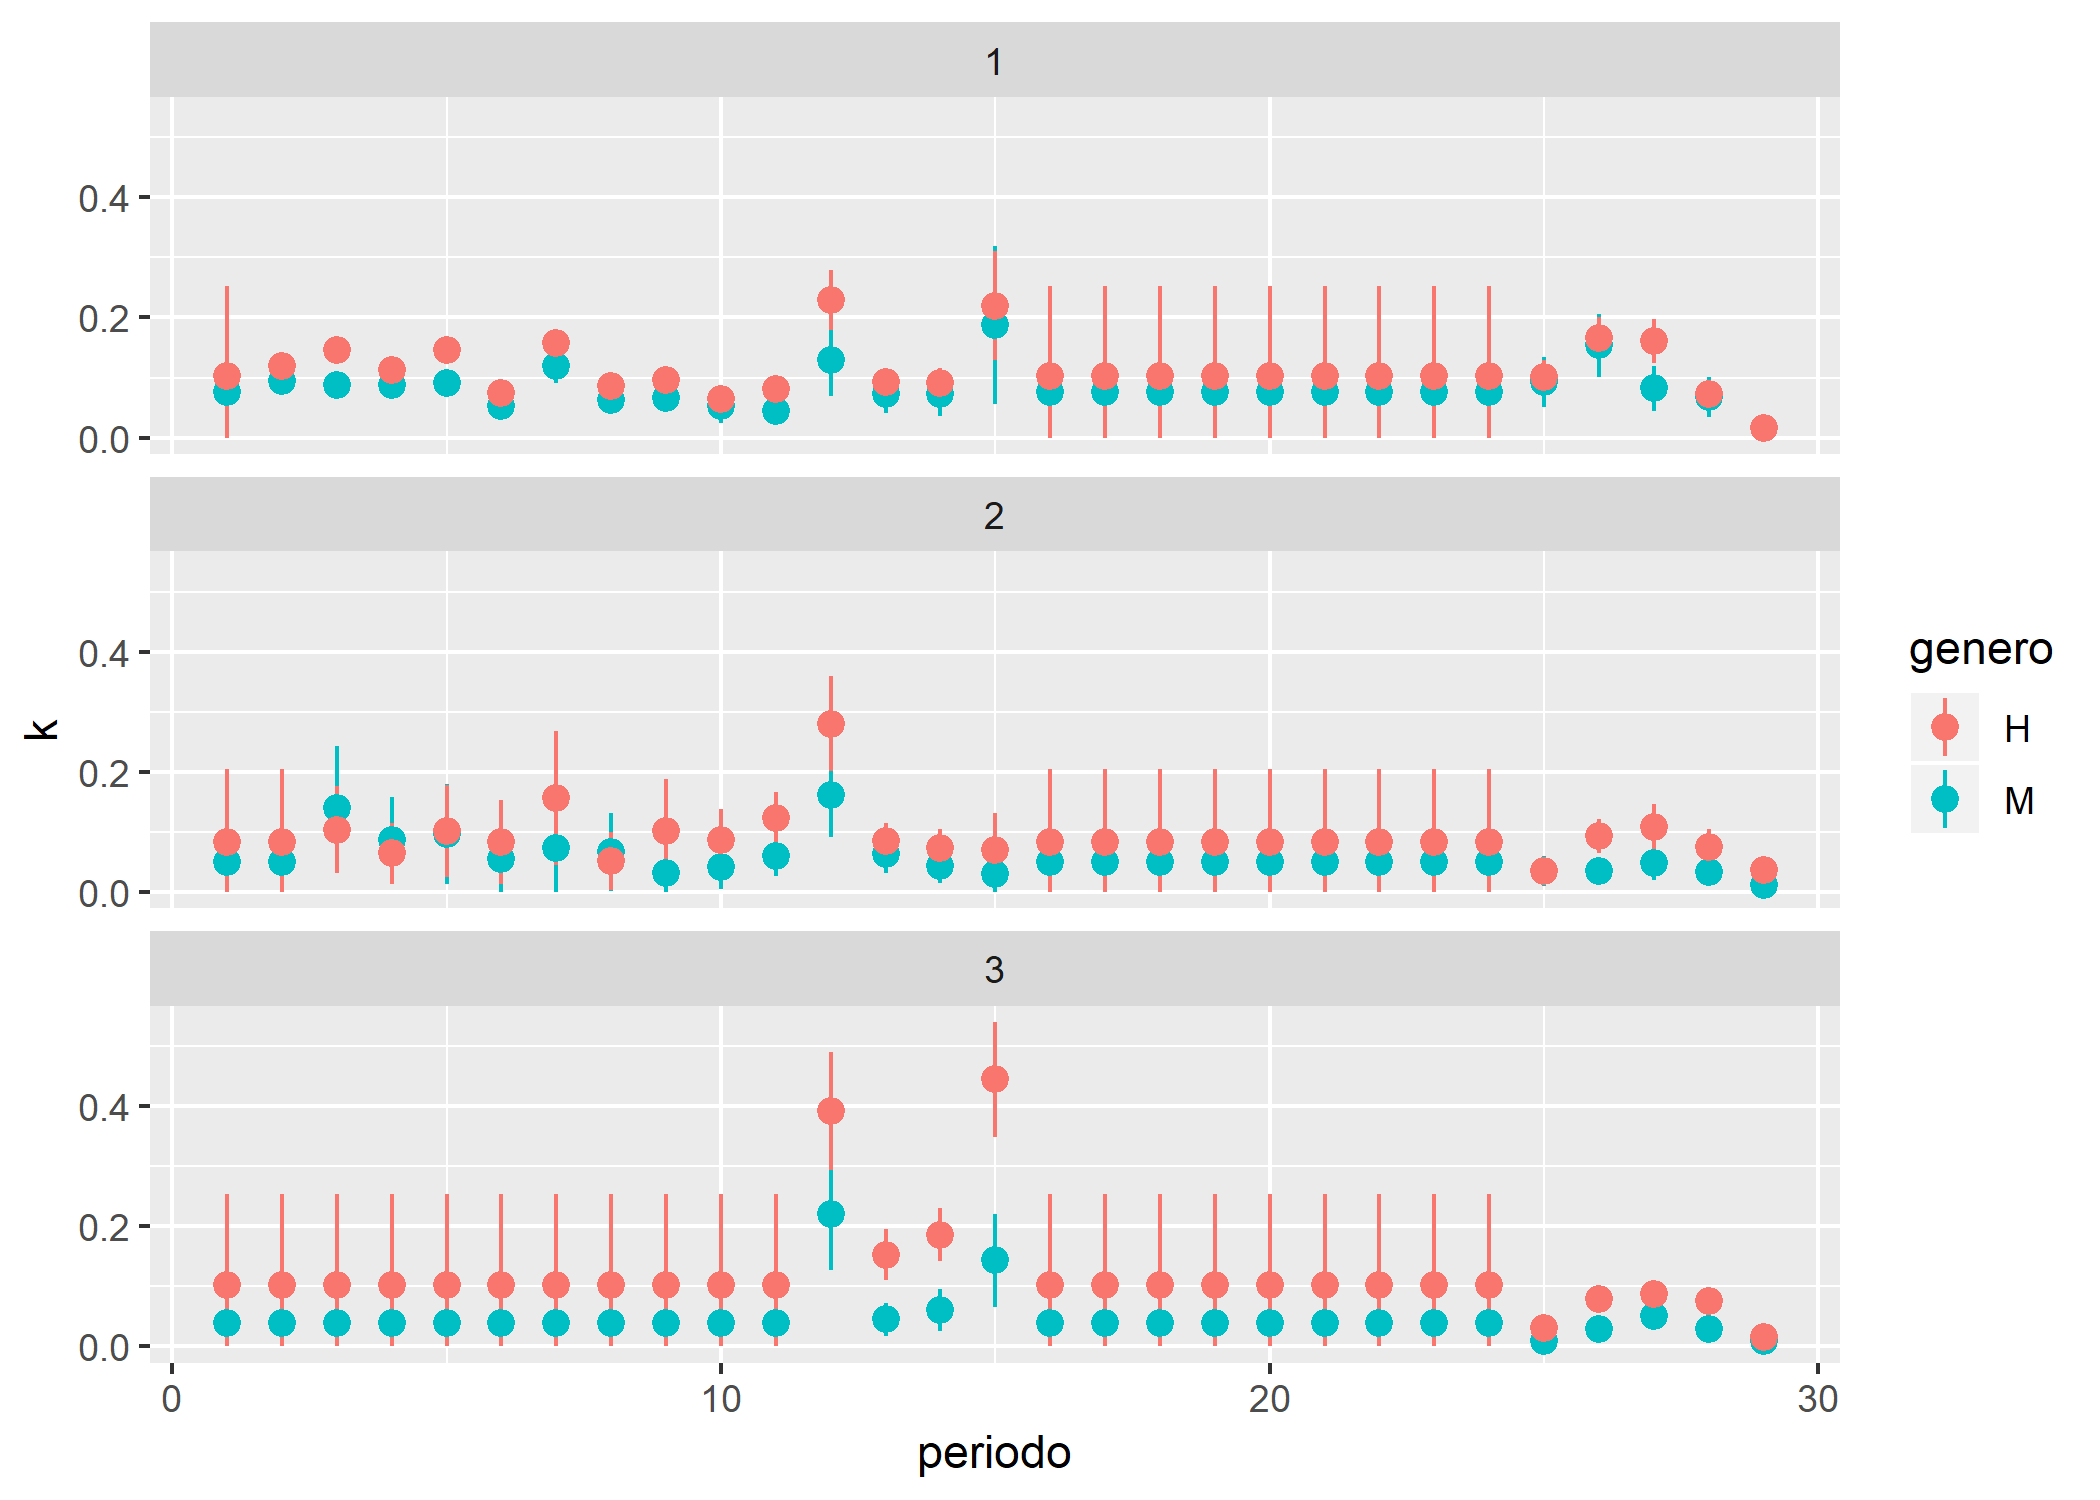
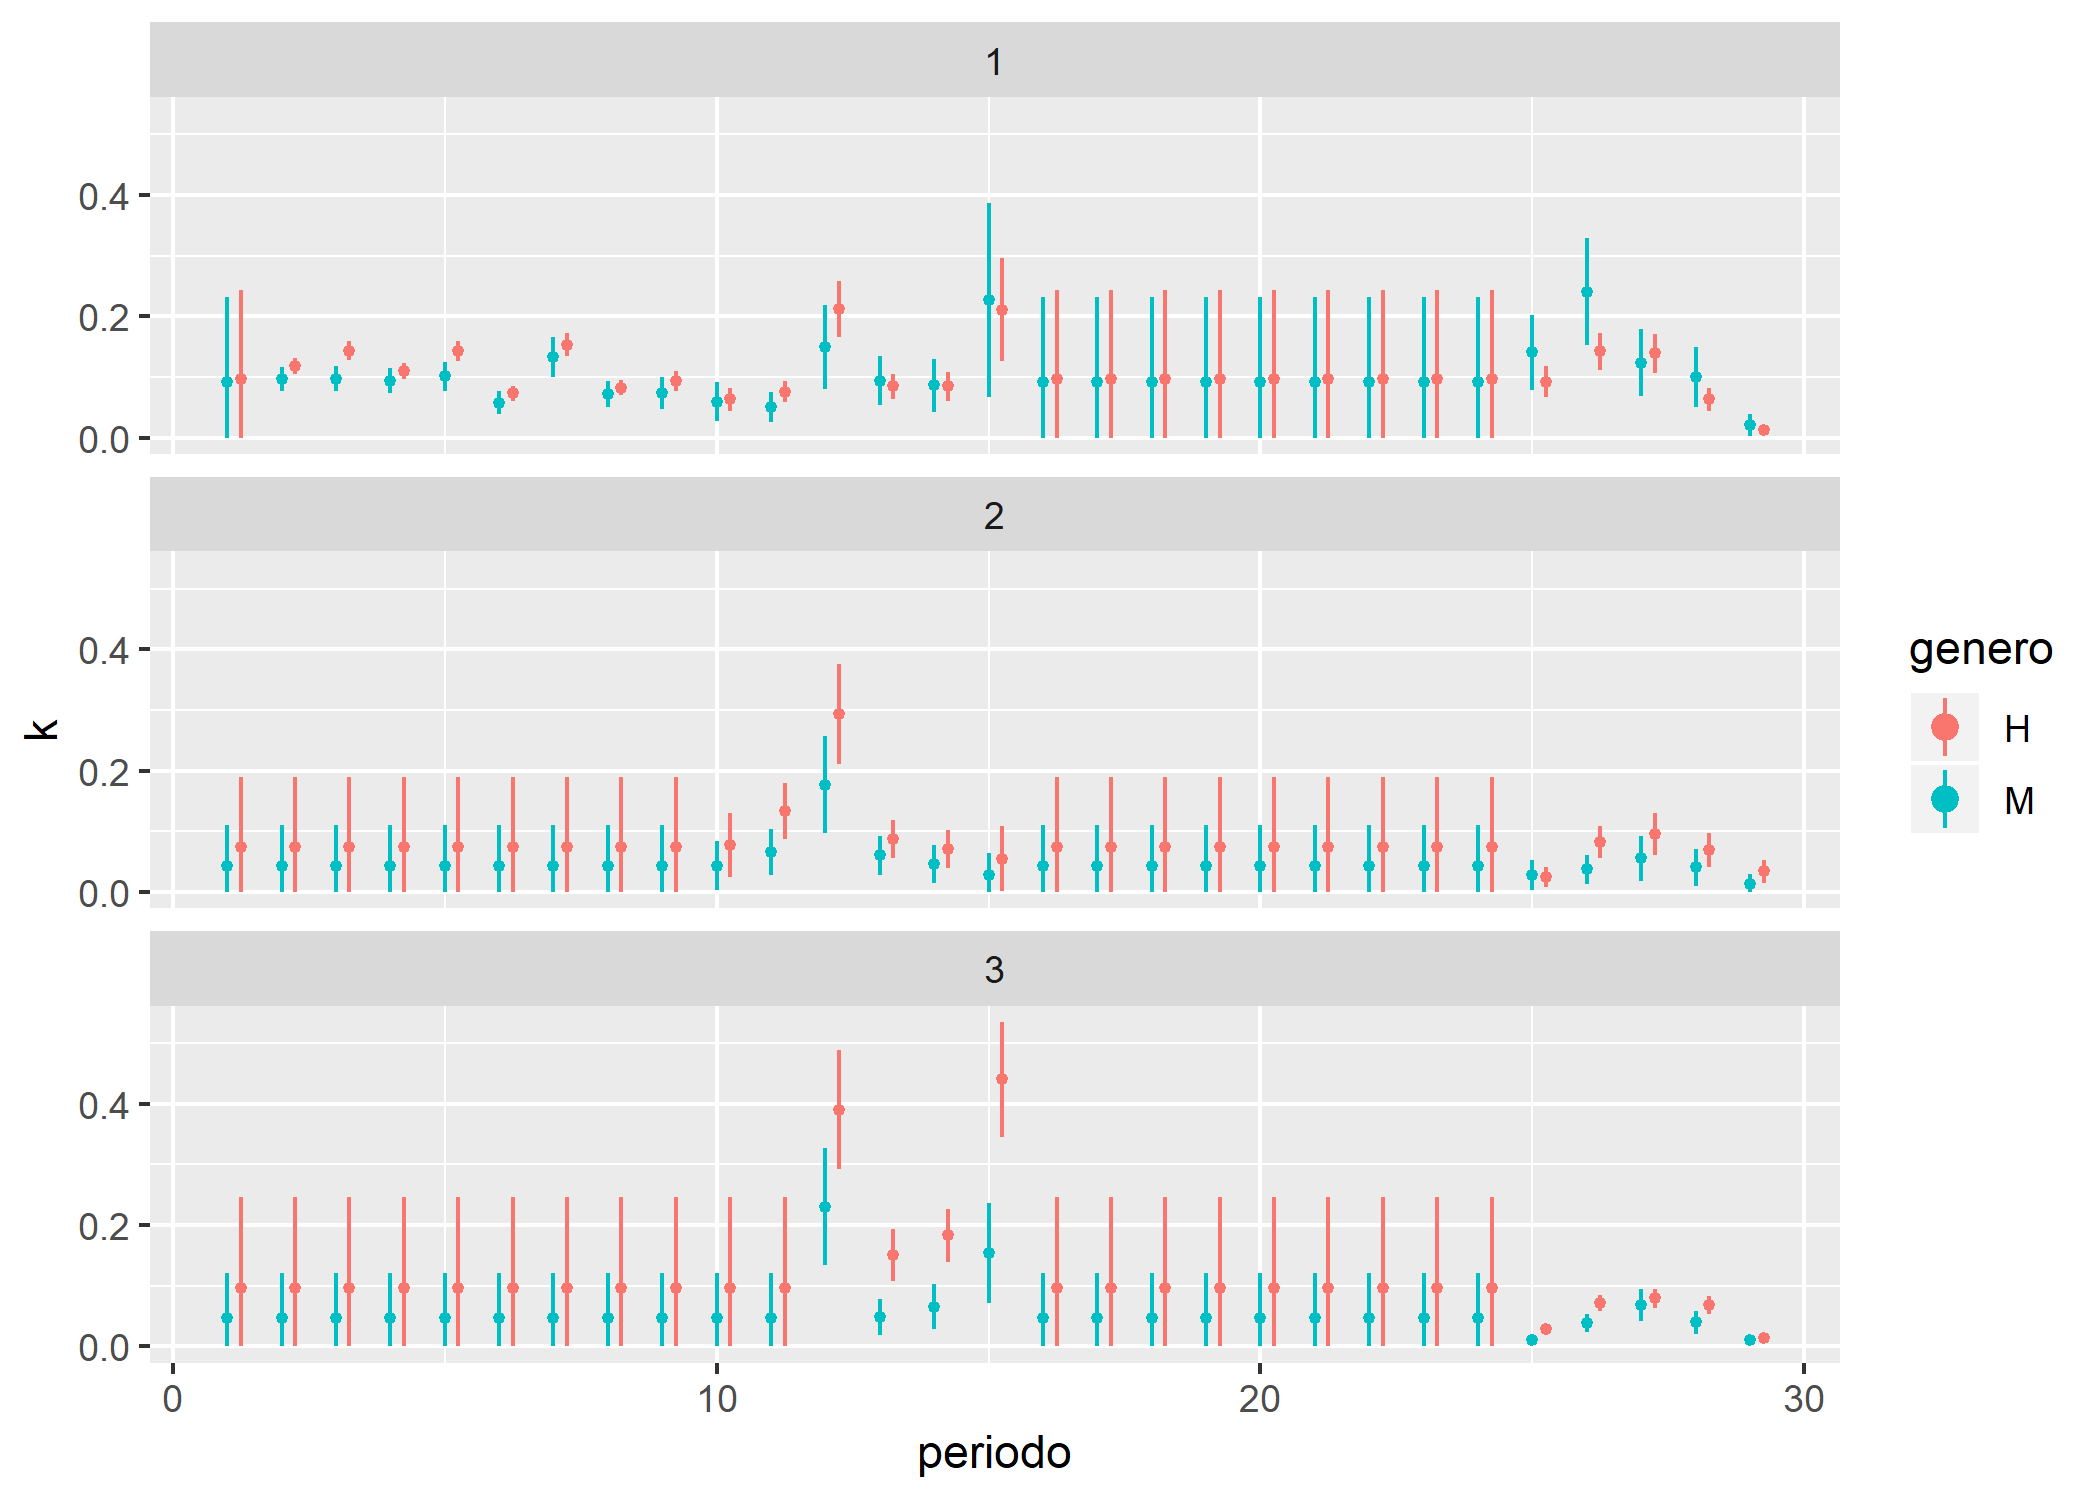
Estima distintas mortalidades para los dos sexos

diff --git a/modelos/cjs_jf.cpp b/modelos/cjs_jf.cpp
@@ -33,7 +33,7 @@ Type objective_function<Type>::operator() ()
   DATA_VECTOR(esfuerzo_pred); // para calcular catchability
   
   // efectos fijos
-  PARAMETER(logM);		// mortalidad de naturleza
+  PARAMETER_VECTOR(logNatM);	// mortalidad de naturleza (H y M)
   PARAMETER(logr);		// effecto de los numeros de capturas
   //  PARAMETER(logk);		// effecto de esfuerza de probabilidad de captura
   PARAMETER(a); 		// efecto de la selectividad
@@ -51,7 +51,8 @@ Type objective_function<Type>::operator() ()
   chi.setZero();
 
   int kk;
-  Type M=exp(logM);
+  vector<Type> NatM;
+  NatM=exp(logNatM);
   Type r=exp(logr);
   Type sigma_tau=exp(logsigma_tau);
   // la primero columna es por machos y la segunda por hembras
@@ -69,14 +70,14 @@ Type objective_function<Type>::operator() ()
   // uso un "-1" para ser claro que pasa.
   for(int i=0; i<I; i++){ // iterando sobre cada individuos
     // inicializacion estan vivo en periodo uno
-    phi(i,first(i)-1)=exp(-M-counts(i,first(i)-1)*r);
+    phi(i,first(i)-1)=exp(-NatM(sexo(i))-counts(i,first(i)-1)*r);
     p(i,first(i)-1)=1;
     for(int t=first(i); t<K; t++) {
       // calcular prob. capturas como una funcion de efectos y covariables
       p(i,t) = (1-exp(-k(t,sexo(i),evento(i))*effort(t)))/(1+exp(a+b*lengths(i)));
       // calcular prob. sobrevivencia como una funcion de efectos y
       // covariables
-      phi(i,t) = exp(-M-counts(i,t-1)*r);
+      phi(i,t) = exp(-NatM(sexo(i))-counts(i,t-1)*r);
     }
     // la probabilidad de no ser visto nunca mas, usa un indice reverso
     // para calcular hacia atras usando recursion.
@@ -150,8 +151,12 @@ Type objective_function<Type>::operator() ()
   ADREPORT(kH1);
   ADREPORT(kH2);
   ADREPORT(kH3);
-  ADREPORT(M);
   ADREPORT(r);
+
+  Type NatMortH=NatM(0);
+  Type NatMortM=NatM(1);
+  ADREPORT(NatMortH);
+  ADREPORT(NatMortM);
   // ADREPORT(a);
   // ADREPORT(b);
   //  ADREPORT(sel_pred);
